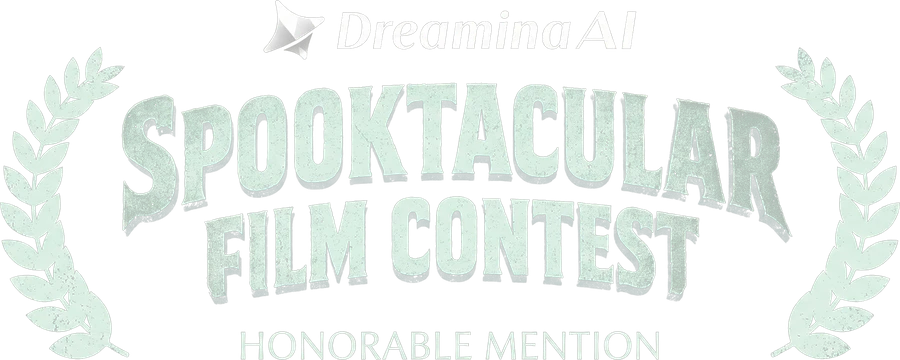
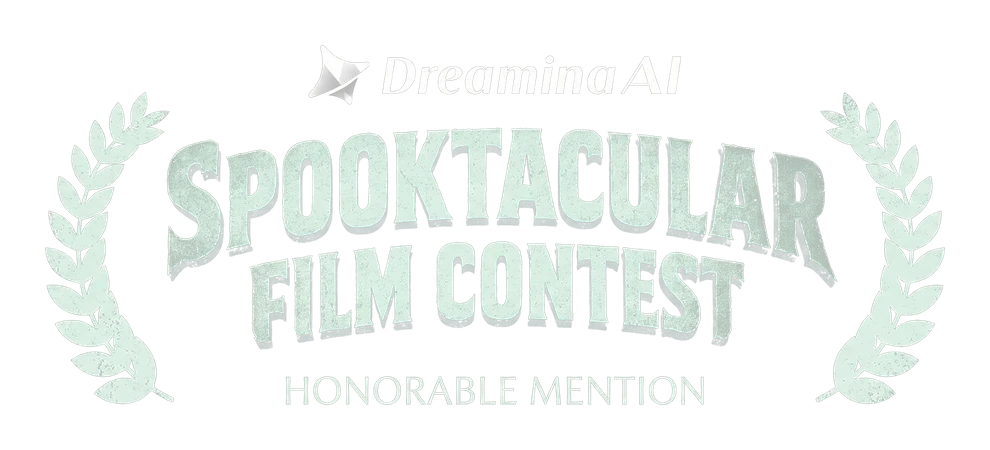
Dreamina laurel in main strip; 7 festivals in 2026
Claude-Session: https://claude.ai/code/session_01B63JUKtCur1Eo53WcxYEMo

diff --git a/index.html b/index.html
@@ -47,6 +47,7 @@
 @media (max-width:700px){.press-card{grid-template-columns:1fr}.pc-logo{border-right:0;border-bottom:1px solid color-mix(in srgb,var(--teal) 25%,var(--line))}.pc-logo img{min-height:0;height:auto;aspect-ratio:4/3}.pc-body{padding:20px}}
 .hm-laurel{display:block;width:100%;max-width:300px;height:auto;margin:18px 0 6px}
 .info-left{display:grid;gap:18px;align-content:start}.info-left .credits{margin:0}.side-img{display:block;width:100%;height:auto;border:1px solid var(--line)}
+@media (max-width:560px){.laurels .lau:last-child:nth-child(odd){grid-column:1/-1;width:50%;justify-self:center}}
 </style>
 <style>
 /* Layout: camera viewfinder hero → stats + laurels → numbered reels (I–V) like a press kit. Single dark look by choice. */
@@ -357,8 +358,8 @@ input,select,textarea{background:rgba(11,13,16,.6)}
 .privacy-note{margin:0;font-size:13px;color:var(--muted)}
 .cmp-hint{position:absolute;left:var(--x);bottom:16px;transform:translateX(-50%);font-family:var(--mono);font-size:11px;letter-spacing:.14em;text-transform:uppercase;background:var(--fg);color:#14100a;padding:6px 10px;pointer-events:none;white-space:nowrap}
 .cert{display:block;width:180px;max-width:100%;height:auto;margin-top:12px;opacity:.92}
-.laurels{grid-template-columns:repeat(6,minmax(0,1fr))}
-@media (max-width:1000px){.laurels{grid-template-columns:repeat(3,minmax(0,1fr))}}
+.laurels{grid-template-columns:repeat(7,minmax(0,1fr))}
+@media (max-width:1000px){.laurels{grid-template-columns:repeat(4,minmax(0,1fr))}}
 @media (max-width:560px){.laurels{grid-template-columns:repeat(2,minmax(0,1fr))}}
 </style>
 <style>
@@ -412,7 +413,7 @@ img{max-width:100%}
     <div class="stat"><b>100M+</b><span class="mono">Combined views</span></div>
     <div class="stat"><b>180K+</b><span class="mono">TikTok followers</span></div>
     <div class="stat"><b>50K+</b><span class="mono">YouTube subscribers</span></div>
-    <div class="stat"><b>5</b><span class="mono">Festivals · 2026</span></div>
+    <div class="stat"><b>7</b><span class="mono">Festivals · 2026</span></div>
   </div>
   <div class="laurels" id="laurels">
     <img class="lau" src="img/laurel-jeju.webp" alt="Award Winner, Jeju International AI Film Festival, Korea 2026" width="640" height="414">
@@ -421,11 +422,12 @@ img{max-width:100%}
     <img class="lau" src="img/laurel-aphrodite-finalist.webp" alt="Finalist, Aphrodite Film Awards 2026, New York" width="640" height="414">
     <img class="lau" src="img/laurel-csfcca.webp" alt="Official Selection, CSFCCA International AI Film Festival 2026" width="640" height="415">
     <img class="lau" src="img/laurel-neuroscope.webp" alt="Official Selection, NeuroScope Films 2026" width="640" height="418">
+    <img class="lau" src="img/laurel-dreamina-hm.webp" alt="Honorable Mention, Dreamina AI Spooktacular Film Contest (The Mirror Door)" width="990" height="450">
   </div>
 </div>
 
 <div class="ticker" role="marquee" aria-label="Recognition">
-  <div class="ticker-track"><div class="ticker-run"><span>Award Winner · Jeju AI International Film Festival · Korea</span><i>✦</i><span>Honorable Mention · Tokyo Film &amp; Screenplay Awards</span><i>✦</i><span>Official Selection · AIFILM3 · Arizona, USA</span><i>✦</i><span>Finalist · Aphrodite Film Awards · New York</span><i>✦</i><span>Official Selection · CSFCCA International AI Film Festival · Taipei</span><i>✦</i><span>Official Selection · NeuroScope Films · USA</span><i>✦</i><span>100M+ combined views · Predator Origins</span><i>✦</i><span>KHARMA · WGA Registered IP</span><i>✦</i><span>Shaike Certified Creator</span><i>✦</i><span>Official Creative Partner · Seedance · Runway · Hailuo · CapCut</span><i>✦</i></div><div class="ticker-run" aria-hidden="true"><span>Award Winner · Jeju AI International Film Festival · Korea</span><i>✦</i><span>Honorable Mention · Tokyo Film &amp; Screenplay Awards</span><i>✦</i><span>Official Selection · AIFILM3 · Arizona, USA</span><i>✦</i><span>Finalist · Aphrodite Film Awards · New York</span><i>✦</i><span>Official Selection · CSFCCA International AI Film Festival · Taipei</span><i>✦</i><span>Official Selection · NeuroScope Films · USA</span><i>✦</i><span>100M+ combined views · Predator Origins</span><i>✦</i><span>KHARMA · WGA Registered IP</span><i>✦</i><span>Shaike Certified Creator</span><i>✦</i><span>Official Creative Partner · Seedance · Runway · Hailuo · CapCut</span><i>✦</i></div></div>
+  <div class="ticker-track"><div class="ticker-run"><span>Award Winner · Jeju AI International Film Festival · Korea</span><i>✦</i><span>Honorable Mention · Tokyo Film &amp; Screenplay Awards</span><i>✦</i><span>Official Selection · AIFILM3 · Arizona, USA</span><i>✦</i><span>Finalist · Aphrodite Film Awards · New York</span><i>✦</i><span>Official Selection · CSFCCA International AI Film Festival · Taipei</span><i>✦</i><span>Official Selection · NeuroScope Films · USA</span><i>✦</i><span>Honorable Mention · Dreamina Spooktacular Film Contest · The Mirror Door</span><i>✦</i><span>100M+ combined views · Predator Origins</span><i>✦</i><span>KHARMA · WGA Registered IP</span><i>✦</i><span>Shaike Certified Creator</span><i>✦</i><span>Official Creative Partner · Seedance · Runway · Hailuo · CapCut</span><i>✦</i></div><div class="ticker-run" aria-hidden="true"><span>Award Winner · Jeju AI International Film Festival · Korea</span><i>✦</i><span>Honorable Mention · Tokyo Film &amp; Screenplay Awards</span><i>✦</i><span>Official Selection · AIFILM3 · Arizona, USA</span><i>✦</i><span>Finalist · Aphrodite Film Awards · New York</span><i>✦</i><span>Official Selection · CSFCCA International AI Film Festival · Taipei</span><i>✦</i><span>Official Selection · NeuroScope Films · USA</span><i>✦</i><span>Honorable Mention · Dreamina Spooktacular Film Contest · The Mirror Door</span><i>✦</i><span>100M+ combined views · Predator Origins</span><i>✦</i><span>KHARMA · WGA Registered IP</span><i>✦</i><span>Shaike Certified Creator</span><i>✦</i><span>Official Creative Partner · Seedance · Runway · Hailuo · CapCut</span><i>✦</i></div></div>
 </div>
 
 <section id="work"><div class="inner">
@@ -475,7 +477,7 @@ img{max-width:100%}
       </div>
       <div class="desc">
         <p>Quiet rooms, held looks, and dread that comes from what the frame withholds.</p>
-        <img class="hm-laurel" src="img/laurel-dreamina-hm.webp" alt="Honorable Mention, Dreamina AI Spooktacular Film Contest" width="900" height="360" loading="lazy">
+        <img class="hm-laurel" src="img/laurel-dreamina-hm.webp" alt="Honorable Mention, Dreamina AI Spooktacular Film Contest" width="990" height="450" loading="lazy">
         <p class="screened"><em>Honorable Mention · Dreamina Spooktacular Film Contest</em>One of only 13 films honored in Dreamina's worldwide horror contest (CapCut), for screenwriting and technical mastery of AI. Jury: Chris White, executive producer of The Backrooms (A24), Portals and V/H/S: Viral · Reza Sixo Safai, filmmaker and producer of A Girl Walks Home Alone at Night and Prisoners of the Ghostland · Jason Zada, director of The Forest.</p>
       </div>
     </div>
